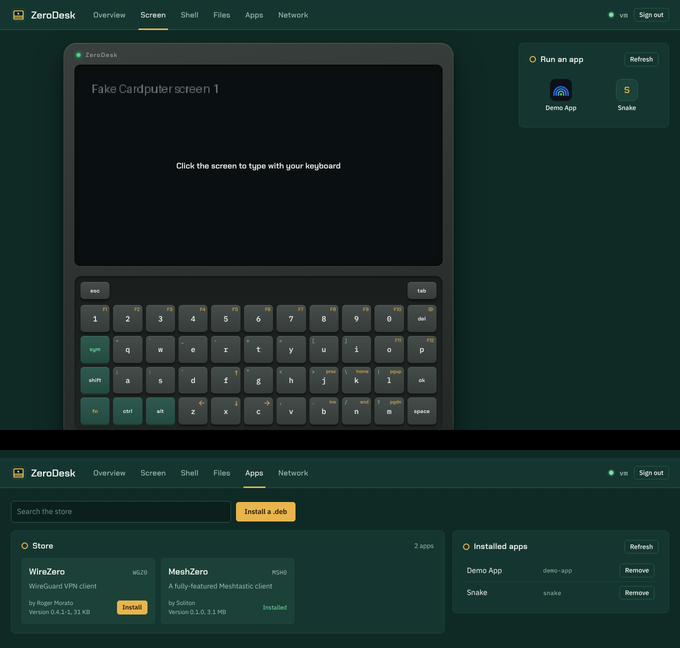
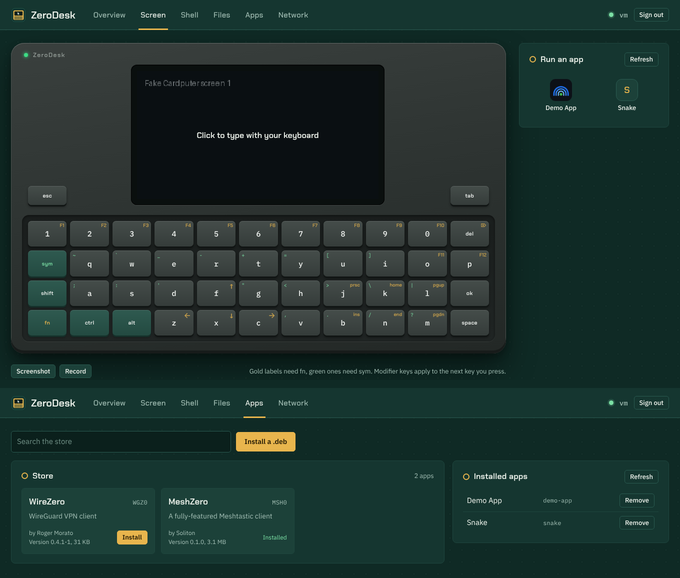
Screen sits over keys 3-9 like the device, so its key labels line up with 4, 6 and 8; Esc and Tab beside it

diff --git a/web/app.js b/web/app.js
@@ -299,7 +299,7 @@
     const K = (code, label, o) => Object.assign({ code, label, shifted: label.length === 1 ? label.toUpperCase() : label }, o || {});
     const SHIFTED_DIGITS = "!@#$%^&*()";
     const ROWS = [
-      [K("Escape", "esc", { cls: "top" }), K("gap", "", { span: 9 }), K("Tab", "tab", { cls: "top" })],
+      [K("Escape", "esc", { cls: "side side-esc" }), K("Tab", "tab", { cls: "side side-tab" })],    // beside the screen
       [...Array.from("1234567890").map((d, i) => K("Digit" + d, d, { shifted: SHIFTED_DIGITS[i], fn: "F" + (i + 1), fnLabel: "F" + (i + 1) })),
        K("Backspace", "del")],
       [K("mod:sym", "sym"), ...["q", "w", "e", "r", "t", "y", "u", "i", "o", "p"].map(c => K("Key" + c.toUpperCase(), c))],
@@ -334,8 +334,8 @@
                       "~": "Backquote", "|": "Backslash", "<": "Comma", ">": "Period", "?": "Slash" };
     const charKey = (ch) => PLAIN[ch] ? [PLAIN[ch], false] : [SHIFTED[ch], true];
 
-    const kb = $("kb"), mods = new Set(), keyEls = {};
-    ROWS.forEach(row => row.forEach(k => {
+    const kb = $("kb"), device = $("device"), face = $("face"), lcd = $("lcd"), mods = new Set(), keyEls = {};
+    ROWS.forEach((row, ri) => row.forEach(k => {
       if (k.code === "gap") { const g = el("span", "key-gap"); g.style.gridColumn = "span " + k.span; kb.append(g); return; }
       const b = el("button", "key" + (k.code.startsWith("mod:") ? " mod" : "") + (k.label.length > 1 ? " word" : "") + (k.cls ? " " + k.cls : ""));
       b.type = "button"; b.tabIndex = -1;
@@ -344,8 +344,33 @@
       const main = el("span", "main", k.label); b.append(main);
       b.dataset.code = k.code; b._k = k; b._main = main;
       b.setAttribute("aria-label", k.code.replace(/^mod:|Key|Digit/g, ""));
-      keyEls[k.code] = b; kb.append(b);
+      keyEls[k.code] = b; (ri === 0 ? face : kb).append(b);
     }));
+    // Put the screen exactly where it sits on the Cardputer: the key labels the
+    // apps draw along its bottom edge (x = 49 ... 273 of 320) land on keys 4 ... 8.
+    const MARK_4 = 49, MARK_8 = 273;
+    function placeScreen() {
+      const k4 = keyEls.Digit4, k8 = keyEls.Digit8, k1 = keyEls.Digit1, k0 = keyEls.Backspace;
+      if (!k4.offsetWidth) return;                     // tab hidden: try again when shown
+      const fr = face.getBoundingClientRect();
+      const mid = (b) => { const r = b.getBoundingClientRect(); return r.left + r.width / 2 - fr.left; };
+      const scale = (mid(k8) - mid(k4)) / (MARK_8 - MARK_4);
+      const bezel = parseFloat(getComputedStyle(lcd).paddingLeft) || 0;
+      const narrow = scale * 320 < 300;                // too small to read: use the full width instead
+      face.classList.toggle("narrow", narrow);
+      if (narrow) { lcd.style.marginLeft = ""; lcd.style.width = ""; }
+      else {
+        lcd.style.marginLeft = (mid(k4) - MARK_4 * scale - bezel) + "px";
+        lcd.style.width = (320 * scale + 2 * bezel) + "px";
+      }
+      const kw = k4.getBoundingClientRect().width;
+      [[keyEls.Escape, k1], [keyEls.Tab, k0]].forEach(([b, under]) => {
+        b.style.width = kw + "px";
+        b.style.left = narrow ? "" : (mid(under) - kw / 2) + "px";
+      });
+    }
+    if (window.ResizeObserver) new ResizeObserver(placeScreen).observe(device);
+    else window.addEventListener("resize", placeScreen);
     function refreshMods() {
       kb.classList.toggle("fn-on", mods.has("fn"));
       kb.classList.toggle("sym-on", mods.has("sym"));
@@ -356,7 +381,7 @@
       });
     }
     let held = null;      // the key being pressed with the mouse or a finger
-    kb.addEventListener("pointerdown", (e) => {
+    device.addEventListener("pointerdown", (e) => {
       const b = e.target.closest(".key");
       if (!b) return;
       e.preventDefault();
@@ -384,9 +409,9 @@
       held.b.classList.remove("down"); held = null;
       mods.clear(); refreshMods();
     }
-    kb.addEventListener("pointerup", letGo);
-    kb.addEventListener("pointercancel", letGo);
-    kb.addEventListener("lostpointercapture", letGo);
+    device.addEventListener("pointerup", letGo);
+    device.addEventListener("pointercancel", letGo);
+    device.addEventListener("lostpointercapture", letGo);
     // light up the on-screen key when typing on a real keyboard
     const physical = { ShiftRight: "mod:ShiftLeft", ControlRight: "mod:ControlLeft", AltRight: "mod:AltLeft",
                        ShiftLeft: "mod:ShiftLeft", ControlLeft: "mod:ControlLeft", AltLeft: "mod:AltLeft", NumpadEnter: "Enter" };
@@ -495,7 +520,7 @@
     }
 
     return {
-      enter() { wanted = true; connect(); loadApps(); pollInfo(); clearInterval(infoTimer); infoTimer = setInterval(pollInfo, 3000); },
+      enter() { wanted = true; requestAnimationFrame(placeScreen); connect(); loadApps(); pollInfo(); clearInterval(infoTimer); infoTimer = setInterval(pollInfo, 3000); },
       leave() { wanted = false; releaseAll(); clearInterval(infoTimer); if (ws) ws.close(); },
     };
   })();

diff --git a/web/app.css b/web/app.css
@@ -154,7 +154,7 @@ main { flex: 1; padding: 26px 22px; min-height: 0; width: 100%; max-width: 1480p
 @media (max-width: 1000px) { .screen-layout { grid-template-columns: 1fr; } }
 .device {
   --u: 1fr;
-  width: min(780px, 100%); margin: 0 auto; padding: 16px 22px 24px;
+  width: min(1060px, 100%); margin: 0 auto; padding: 16px 22px 24px;
   background: linear-gradient(170deg, #3a403e 0%, #2c3230 55%, #232826 100%);
   border-radius: 26px;
   box-shadow: inset 0 1px 0 rgba(255, 255, 255, .14), inset 0 -6px 0 #171b1a, inset 0 0 0 1px #4a514e,
@@ -165,6 +165,11 @@ main { flex: 1; padding: 26px 22px; min-height: 0; width: 100%; max-width: 1480p
 .led { width: 8px; height: 8px; border-radius: 50%; background: #59615d; box-shadow: inset 0 1px 1px rgba(0, 0, 0, .3); }
 .led.on { background: #3ddc84; box-shadow: 0 0 6px 1px rgba(61, 220, 132, .7); }
 .dev-name { font: 600 12px var(--display); letter-spacing: .12em; color: #8f9893; }
+.face { position: relative; }
+.face .key.side { position: absolute; bottom: 0; height: 38px; aspect-ratio: auto; }
+.face.narrow { display: flex; flex-wrap: wrap; justify-content: space-between; gap: 10px 0; }
+.face.narrow .lcd { flex: 1 0 100%; }
+.face.narrow .key.side { position: static; }
 .lcd {
   position: relative; padding: 12px; background: #0a0f0e; border-radius: 12px;
   box-shadow: inset 0 0 0 1px #000, 0 1px 0 rgba(255, 255, 255, .1), 0 -1px 0 #151918;
@@ -186,7 +191,7 @@ main { flex: 1; padding: 26px 22px; min-height: 0; width: 100%; max-width: 1480p
   background: linear-gradient(#1a1e1d, #202524); box-shadow: inset 0 2px 5px rgba(0, 0, 0, .45), 0 1px 0 rgba(255, 255, 255, .08);
 }
 .key {
-  position: relative; aspect-ratio: 1 / .92; min-width: 0; padding: 0; justify-content: center; align-items: center;
+  position: relative; aspect-ratio: 1 / .66; min-width: 0; padding: 0; justify-content: center; align-items: center;
   font: 500 15px var(--mono); color: #f2f5f2; text-transform: none;
   background: linear-gradient(#454d4a, #353c3a); border: none; border-radius: 7px;
   box-shadow: 0 3px 0 #111514, 0 4px 5px rgba(0, 0, 0, .4), inset 0 1px 0 rgba(255, 255, 255, .12);
@@ -196,7 +201,7 @@ main { flex: 1; padding: 26px 22px; min-height: 0; width: 100%; max-width: 1480p
 .key.down { transform: translateY(2px); box-shadow: 0 1px 0 #111514, inset 0 1px 0 rgba(255, 255, 255, .08); background: linear-gradient(#3f4745, #343b39); }
 .key.word .main { font: 600 10.5px var(--display); letter-spacing: .04em; }
 .key-gap { min-width: 0; }
-.key.top { aspect-ratio: auto; height: 34px; margin-bottom: 4px; }
+
 .key .sym-label { position: absolute; top: 3px; left: 5px; font: 500 10px var(--mono); color: var(--ok); opacity: .8; }
 .kb.sym-on .key .sym-label { opacity: 1; text-shadow: 0 0 8px rgba(123, 224, 165, .8); }
 .kb.sym-on .key:not(.mod):not(:has(.sym-label)) { opacity: .55; }
@@ -216,10 +221,10 @@ main { flex: 1; padding: 26px 22px; min-height: 0; width: 100%; max-width: 1480p
   .key.word .main { font-size: 7px; letter-spacing: 0; }
   .key .fn-label { top: 1px; right: 2px; font-size: 7px; }
   .key .sym-label { top: 1px; left: 2px; font-size: 7px; }
-  .key.top { height: 24px; }
+  .face .key.side { height: 28px; }
   .hint { display: none; }
 }
-.under-device { width: min(780px, 100%); margin: 22px auto 0; }
+.under-device { width: min(1060px, 100%); margin: 22px auto 0; }
 .screen-tools { display: flex; align-items: center; gap: 8px; margin-bottom: 12px; }
 #rec.recording { border-color: var(--err); color: var(--err); }
 #rec.recording::before { content: ""; width: 8px; height: 8px; border-radius: 50%; background: var(--err); }

diff --git a/web/index.html b/web/index.html
@@ -60,9 +60,11 @@
             <span id="dev-led" class="led" title="Not connected"></span>
             <span class="dev-name">ZeroDesk</span>
           </div>
-          <div class="lcd">
-            <canvas id="screen" width="320" height="170" tabindex="0" aria-label="Cardputer screen"></canvas>
-            <div id="screen-overlay" class="overlay">Click the screen to type with your keyboard</div>
+          <div class="face" id="face">
+            <div class="lcd" id="lcd">
+              <canvas id="screen" width="320" height="170" tabindex="0" aria-label="Cardputer screen"></canvas>
+              <div id="screen-overlay" class="overlay">Click to type with your keyboard</div>
+            </div>
           </div>
           <div class="kb" id="kb" role="group" aria-label="Cardputer keyboard"></div>
         </div>
